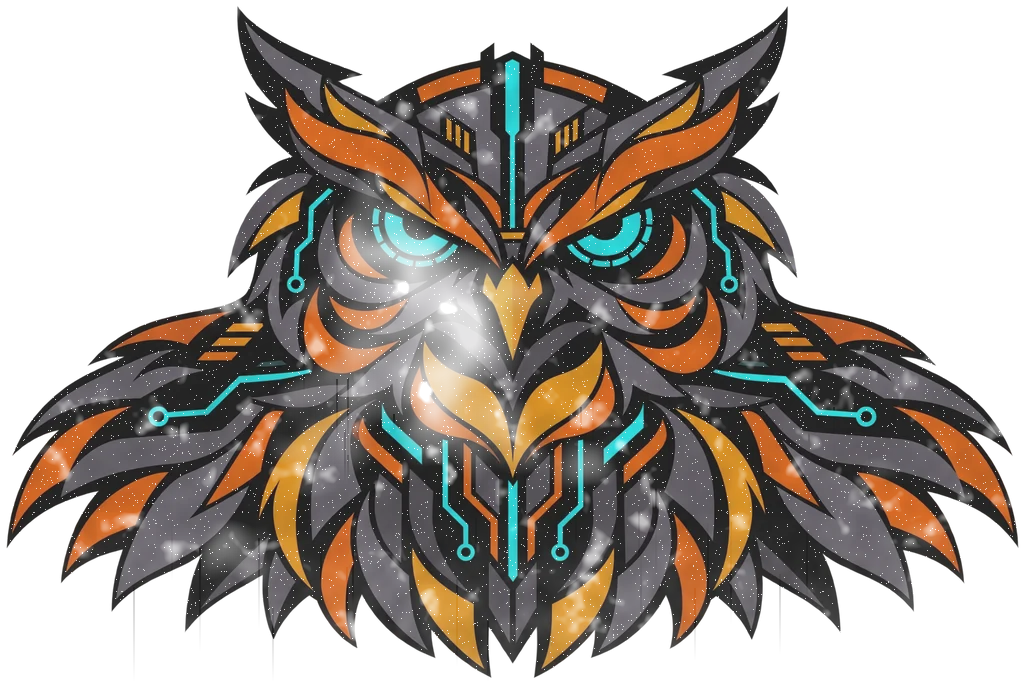
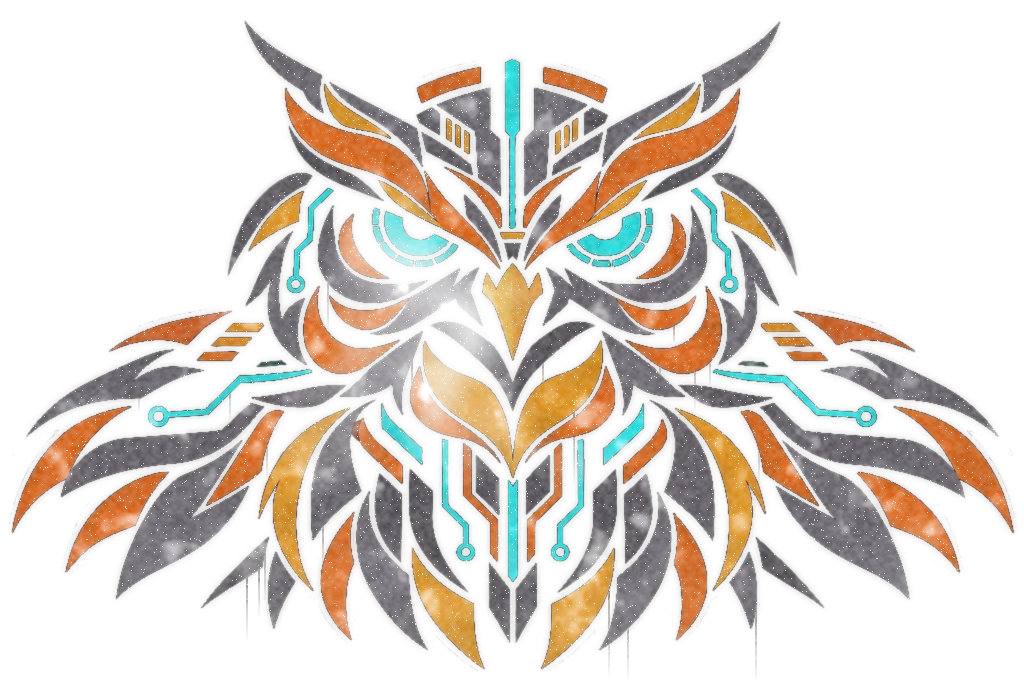
Cult room: the owl as a painted stencil on concrete; the Camera App reticle on the feed
- The owl texture keeps only the coloured paint: backdrop and black linework
  keyed out with a soft alpha (colours bled under the edges, no halo), faint
  overspray, concrete grain through the paint, wear, drips. Lit by two soft
  grazing wall-washers instead of a spot with a hard-edged pool.
- The hacked feed shows the V1 Camera App's frame, edge ticks, aperture and
  crosshair (its own markup and CSS rules), on screen only, as for its photos;
  no battery reading.

Claude-Session: https://claude.ai/code/session_013LW6cCPWiok2HMcoh6xN6q

diff --git a/void-runner/camera-feed.js b/void-runner/camera-feed.js
@@ -1,6 +1,6 @@
 /* HACKED CAMERA FEEDS (the Blackrock Cult Room, the owner, 19 Nov 2026). A "Hack the access point" step with a camera feed (feed: '<id>', the mission's feeds list) does
    not open a door: when the hack finishes the screen switches to that camera, a security camera in a top corner of the room, looking down. The view works like the V1's
-   Camera App (corner brackets, timecode, battery, signal, zoom on the mouse wheel) with a REC light: RECORDING IS AUTOMATIC. It starts as the feed comes up (the
+   Camera App (its frame, corner brackets and centre reticle, timecode, zoom on the mouse wheel; no battery: a wired security camera) with a REC light: RECORDING IS AUTOMATIC. It starts as the feed comes up (the
    initiate already kneeling, just before the six enter) and stops by itself when the scene has ended (everyone gone, the door shut). The recording is saved in the V1
    Gallery as a video (WebM in this browser only, never uploaded: device-gallery.js addVideo) and the view returns to the player at once, where they stood.
    THE PLAYER IS SAFE: while the feed shows, the game's own update is not run (time stands still for the player and the world they are in; nothing can reach them) and
@@ -17,8 +17,7 @@
  const OUT={w:960,h:540,fps:24},MIN_BPS=450000,MAX_BPS=1600000;
  let F=null,hooked=false,speed=1;
  const css=document.createElement('style');css.textContent='#cam-feed{position:fixed;inset:0;z-index:90;pointer-events:none;font:13px/1.35 ui-monospace,Consolas,monospace;color:#d8e6dc;text-shadow:0 0 3px #000}#cam-feed[hidden]{display:none}'
-  +'#cam-feed .cf-c{position:absolute;width:42px;height:42px;border:2px solid rgba(220,235,225,.7)}#cam-feed .tl{left:24px;top:24px;border-right:0;border-bottom:0}#cam-feed .tr{right:24px;top:24px;border-left:0;border-bottom:0}#cam-feed .bl{left:24px;bottom:24px;border-right:0;border-top:0}#cam-feed .br{right:24px;bottom:24px;border-left:0;border-top:0}'
-  +'#cam-feed .cf-tl{position:absolute;left:44px;top:40px}#cam-feed .cf-tr{position:absolute;right:44px;top:40px;text-align:right}#cam-feed .cf-bl{position:absolute;left:44px;bottom:40px}#cam-feed .cf-br{position:absolute;right:44px;bottom:40px;text-align:right}'
+  +'#cam-feed .cf-tl{position:absolute;left:5.6vmin;top:4.6vmin}#cam-feed .cf-tr{position:absolute;right:5.6vmin;top:4.6vmin;text-align:right}#cam-feed .cf-bl{position:absolute;left:5.6vmin;bottom:4.6vmin}#cam-feed .cf-br{position:absolute;right:5.6vmin;bottom:4.6vmin;text-align:right}'
   +'#cam-feed .cf-rec{color:#ff4040;font-weight:700}#cam-feed .cf-rec i{display:inline-block;width:10px;height:10px;border-radius:50%;background:#ff3030;margin-right:6px;animation:cfblink 1s steps(2) infinite}@keyframes cfblink{50%{opacity:.15}}'
   +'#cam-feed .cf-say{position:absolute;left:50%;bottom:11vh;transform:translateX(-50%);max-width:70vw;text-align:center;font:15px/1.4 ui-monospace,Consolas,monospace;background:rgba(0,0,0,.55);padding:6px 12px;border-radius:3px}#cam-feed .cf-say:empty{display:none}'
   +'#cam-feed .cf-msg{position:absolute;left:50%;top:44%;transform:translate(-50%,-50%);font:700 18px/1.4 ui-monospace,Consolas,monospace;letter-spacing:.14em;background:rgba(0,0,0,.7);padding:10px 18px;border:1px solid rgba(220,235,225,.5)}#cam-feed .cf-msg:empty{display:none}'
@@ -26,12 +25,22 @@
  document.head.append(css);
  let el=null;const $=k=>el.querySelector('[data-cf='+k+']');
  function build(){el=document.createElement('div');el.id='cam-feed';el.hidden=true;el.setAttribute('role','img');el.setAttribute('aria-label','Hacked security camera feed');
-  el.innerHTML='<div class="cf-scan"></div><i class="cf-c tl"></i><i class="cf-c tr"></i><i class="cf-c bl"></i><i class="cf-c br"></i>'
+  const corner=c=>'<i class="pc-corner '+c+'"></i>';reticleCss();
+  el.innerHTML='<div class="cf-scan"></div><div class="pc-frame">'+corner('tl')+corner('tr')+corner('bl')+corner('br')+'<i class="pc-edge t"></i><i class="pc-edge b"></i></div><div class="pc-aperture">'+corner('tl')+corner('tr')+corner('bl')+corner('br')+'<i class="pc-cross"></i></div>'   // the V1 Camera App's own frame and reticle (device-camera.js build)
    +'<div class="cf-tl"><div data-cf="cam">CAM B2-07 · SUB-LEVEL 2</div><div data-cf="date"></div></div>'
    +'<div class="cf-tr"><div class="cf-rec" data-cf="rec"><i></i>REC <b data-cf="rect">00:00:00</b></div><div>SIGNAL <b>HIJACKED</b></div></div>'
    +'<div class="cf-bl"><div>Zoom <b data-cf="zoom">1x</b></div><div>WHEEL · ZOOM &nbsp; RECORDING STOPS BY ITSELF</div></div>'
    +'<div class="cf-br"><div data-cf="tc">00:00:00:00</div><div>FPS : <b data-cf="fps">0</b></div></div><div class="cf-say" data-cf="say"></div><div class="cf-msg" data-cf="msg"></div>';
   document.body.append(el);}
+ /* THE RETICLE (the owner, 19 Nov 2026: "put the reticle on the camera view just like the camera"): the V1 Camera App's frame (corner brackets, edge ticks) and centre
+    aperture with its crosshair, the same markup as device-camera.js, styled by the Camera App's own rules in device-v1.css, copied here at run time from '#pd-camera'
+    to '#cam-feed' (so a change to the Camera App's look changes this too). On screen only: like the Camera App's photos, the saved recording does not carry it. */
+ function reticleCss(){if(document.getElementById('cam-feed-reticle'))return;const out=[];
+  for(const sh of document.styleSheets){let rules;try{rules=sh.cssRules;}catch{continue;}for(const r of rules||[]){const sel=r.selectorText;if(!sel||!sel.includes('#pd-camera'))continue;
+   const parts=sel.split(',').map(x=>x.trim()).filter(x=>x.startsWith('#pd-camera')&&!x.includes('[data-device'));if(!parts.length)continue;const vars=r.style.getPropertyValue('--pd-edge-hi');
+   if(/pc-(frame|corner|edge|aperture|cross)/.test(sel))out.push(parts.join(',').replace(/#pd-camera/g,'#cam-feed')+'{'+r.style.cssText+'}');
+   else if(vars&&parts.includes('#pd-camera'))out.push('#cam-feed{'+[...r.style].filter(k=>k.startsWith('--')).map(k=>k+':'+r.style.getPropertyValue(k)).join(';')+'}');}}
+  const st=document.createElement('style');st.id='cam-feed-reticle';st.textContent=out.join('\n')+'\n@keyframes pc-pulse{50%{opacity:.6}}';document.head.append(st);}
  const two=n=>String(Math.floor(n)).padStart(2,'0'),hms=s=>two(s/3600)+':'+two(s/60%60)+':'+two(s%60);
  // ---- the game loop: while a feed shows, the player's world does not update and is not drawn (draw / update are game.js functions, wrapped once) ----
  function hook(){if(hooked)return true;if(typeof draw!=='function'||typeof update!=='function')return false;const od=draw,ou=update;

diff --git a/void-runner/cult-room-build.js b/void-runner/cult-room-build.js
@@ -105,7 +105,7 @@
   const L=[];
   const spot=(name,pos,dir,angle,col,int,range)=>{const l=new B.SpotLight('cult-'+name,new B.Vector3(...pos),new B.Vector3(...dir).normalize(),angle,2,scene);l.diffuse=B.Color3.FromHexString(col);l.specular=l.diffuse.scale(.4);l.intensity=int;l.range=range;L.push(l);return l;};
   const pt=(name,pos,col,int,range)=>{const l=new B.PointLight('cult-'+name,new B.Vector3(...pos),scene);l.diffuse=B.Color3.FromHexString(col);l.specular=l.diffuse.scale(.3);l.intensity=int;l.range=range;L.push(l);return l;};
-  spot('owl-wash',[0,H-.35,S-3.4],[0,-.18,1],1.25,'#d8d0c4',5.2,14);
+  for(const x of [-2.4,2.4]){const l=spot('owl-wash'+x,[x,H-.25,S-1.1],[0,-1,.38],2.4,'#d8d0c4',8.5,12);l.exponent=14;}   // two grazing wall-washers: a soft fall-off down the concrete, no pool of light with an edge
   const circleL=spot('circle',[0,H-.2,-.4],[0,-1,.06],1.25,'#aebdd6',3.4,12);circleL.exponent=7;
   const candles=pt('candles',[A.x,A.h+.45,A.z-.2],'#ff9a40',1.5,6.5);
   pt('door-lamp',[0,dz.h+.85,-S+.35],'#9fb6ff',.9,5);

diff --git a/docs/development/BLACKROCK_CULT_ROOM.md b/docs/development/BLACKROCK_CULT_ROOM.md
@@ -16,10 +16,11 @@ The owner's queued request (AI_HANDOFF.md, "The Blackrock Cult Room, for one mis
 `void-runner/cult-room-build.js`, its own Babylon scene on the game's engine, built only while a feed shows it and disposed afterwards (the player's world is untouched).
 
 - 14 m square, 7 m high. Board-formed concrete walls (form lines, tie holes, stains from the ring beam), pilasters on the side walls, a ring beam, an exposed ceiling (two deep beams, a ventilation duct with hangers, a pipe run along the west wall, a cable tray), a stained slab with a drain under the initiate, conduit and junction boxes, a fire panel, an exit sign and a caged bulkhead light over the door.
-- **The owl:** the owner's own art (`void-runner/art/blackrock/owl-stencil.webp`, 1024 x 683, weathered: paint loss, flecks, drips, sunk into the concrete), 8.4 x 5.6 m on the far wall, washed by a hidden spot.
+- **The owl:** the owner's own art (`void-runner/art/blackrock/owl-stencil.webp`, 1024 x 683) made into a painted stencil: only the coloured shapes are paint (the backdrop and the black linework between the shapes are keyed out with a soft alpha, so the bare concrete shows through them; colours bled under the edges so there is no dark halo), a faint overspray mist round the shapes, the concrete's grain through the paint, blotchy paint loss, flecks and drips. 8.4 x 5.6 m on the far wall, lit by two grazing wall-washers from the ceiling (a soft fall-off down the wall, no pool of light with an edge).
 - **The altar:** a black stone block on a plinth, a black cloth runner, ten candles (a flickering warm light), a lacquered box with a brass catch whose lid opens; the paper card goes from the box into the initiate's right hand.
 - **The door and the stub corridor:** a steel sliding door centred on the near wall; behind it 4.2 m of dim service corridor (concrete, a pipe, a caged warm wall light), only so the open door never shows empty space.
 - **Light** (6 of the 8 allowed): the owl wash, a cool pool over the circle, the candles, the door lamp, the corridor lamp, a low fill. Fog, vignette and a muted, cold colour grade (a security camera's look); the recording adds scanlines, grain and the camera's burn-in.
+- **The overlay** (the owner: "put the reticle on the camera view just like the camera"): the V1 Camera App's own frame (corner brackets, edge ticks) and centre aperture with its crosshair, same markup as `device-camera.js`, styled by the Camera App's rules copied at run time from `device-v1.css`; no battery reading (a wired security camera; the owner). On screen only: like the Camera App's photos, the recording does not carry it (the recording has its own burn-in: camera name, date and time, REC).
 - **The camera:** in the top corner over the door side (`cult-room.js ROOM.camera`), seeing the door, the circle, the altar and the owl; zoom 1x, 1.5x, 2x, 3x.
 
 ## The robed figure
